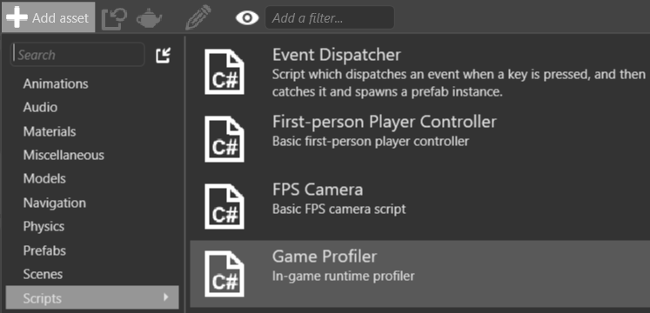
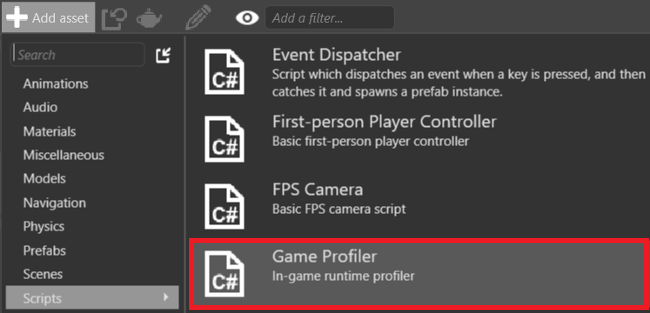
[Profiling] better screenshots

Changed region(s): [[0.2769, 0.7476, 1.0, 1.0]]

diff --git a/en/manual/troubleshooting/profiling.md b/en/manual/troubleshooting/profiling.md
@@ -3,7 +3,7 @@
 <span class="label label-doc-level">Beginner</span>
 <span class="label label-doc-audience">Programmer</span>
 
-You can **profile** your project to check its runtime performance and find problems. Use the Xenko **GameProfiler** script or an external profiling tool such as the Performance Profiler in Visual Studio.
+You can **profile** your project to check its runtime performance and find problems. Use the Xenko **Game Profiler** script or an external profiling tool such as the Performance Profiler in Visual Studio.
 
 ![Profiling](media/profiling.png)
 
@@ -19,7 +19,7 @@ To use the script:
 
 2. The **New script dialog** opens. Leave the default information and click **Create script**.
 
-    ![New script](media/game-profiler-script-wizard.png)
+    ![New script](media/create-profiler-script.png)
 
     Game Studio adds the GameProfiler script to your project.
 
